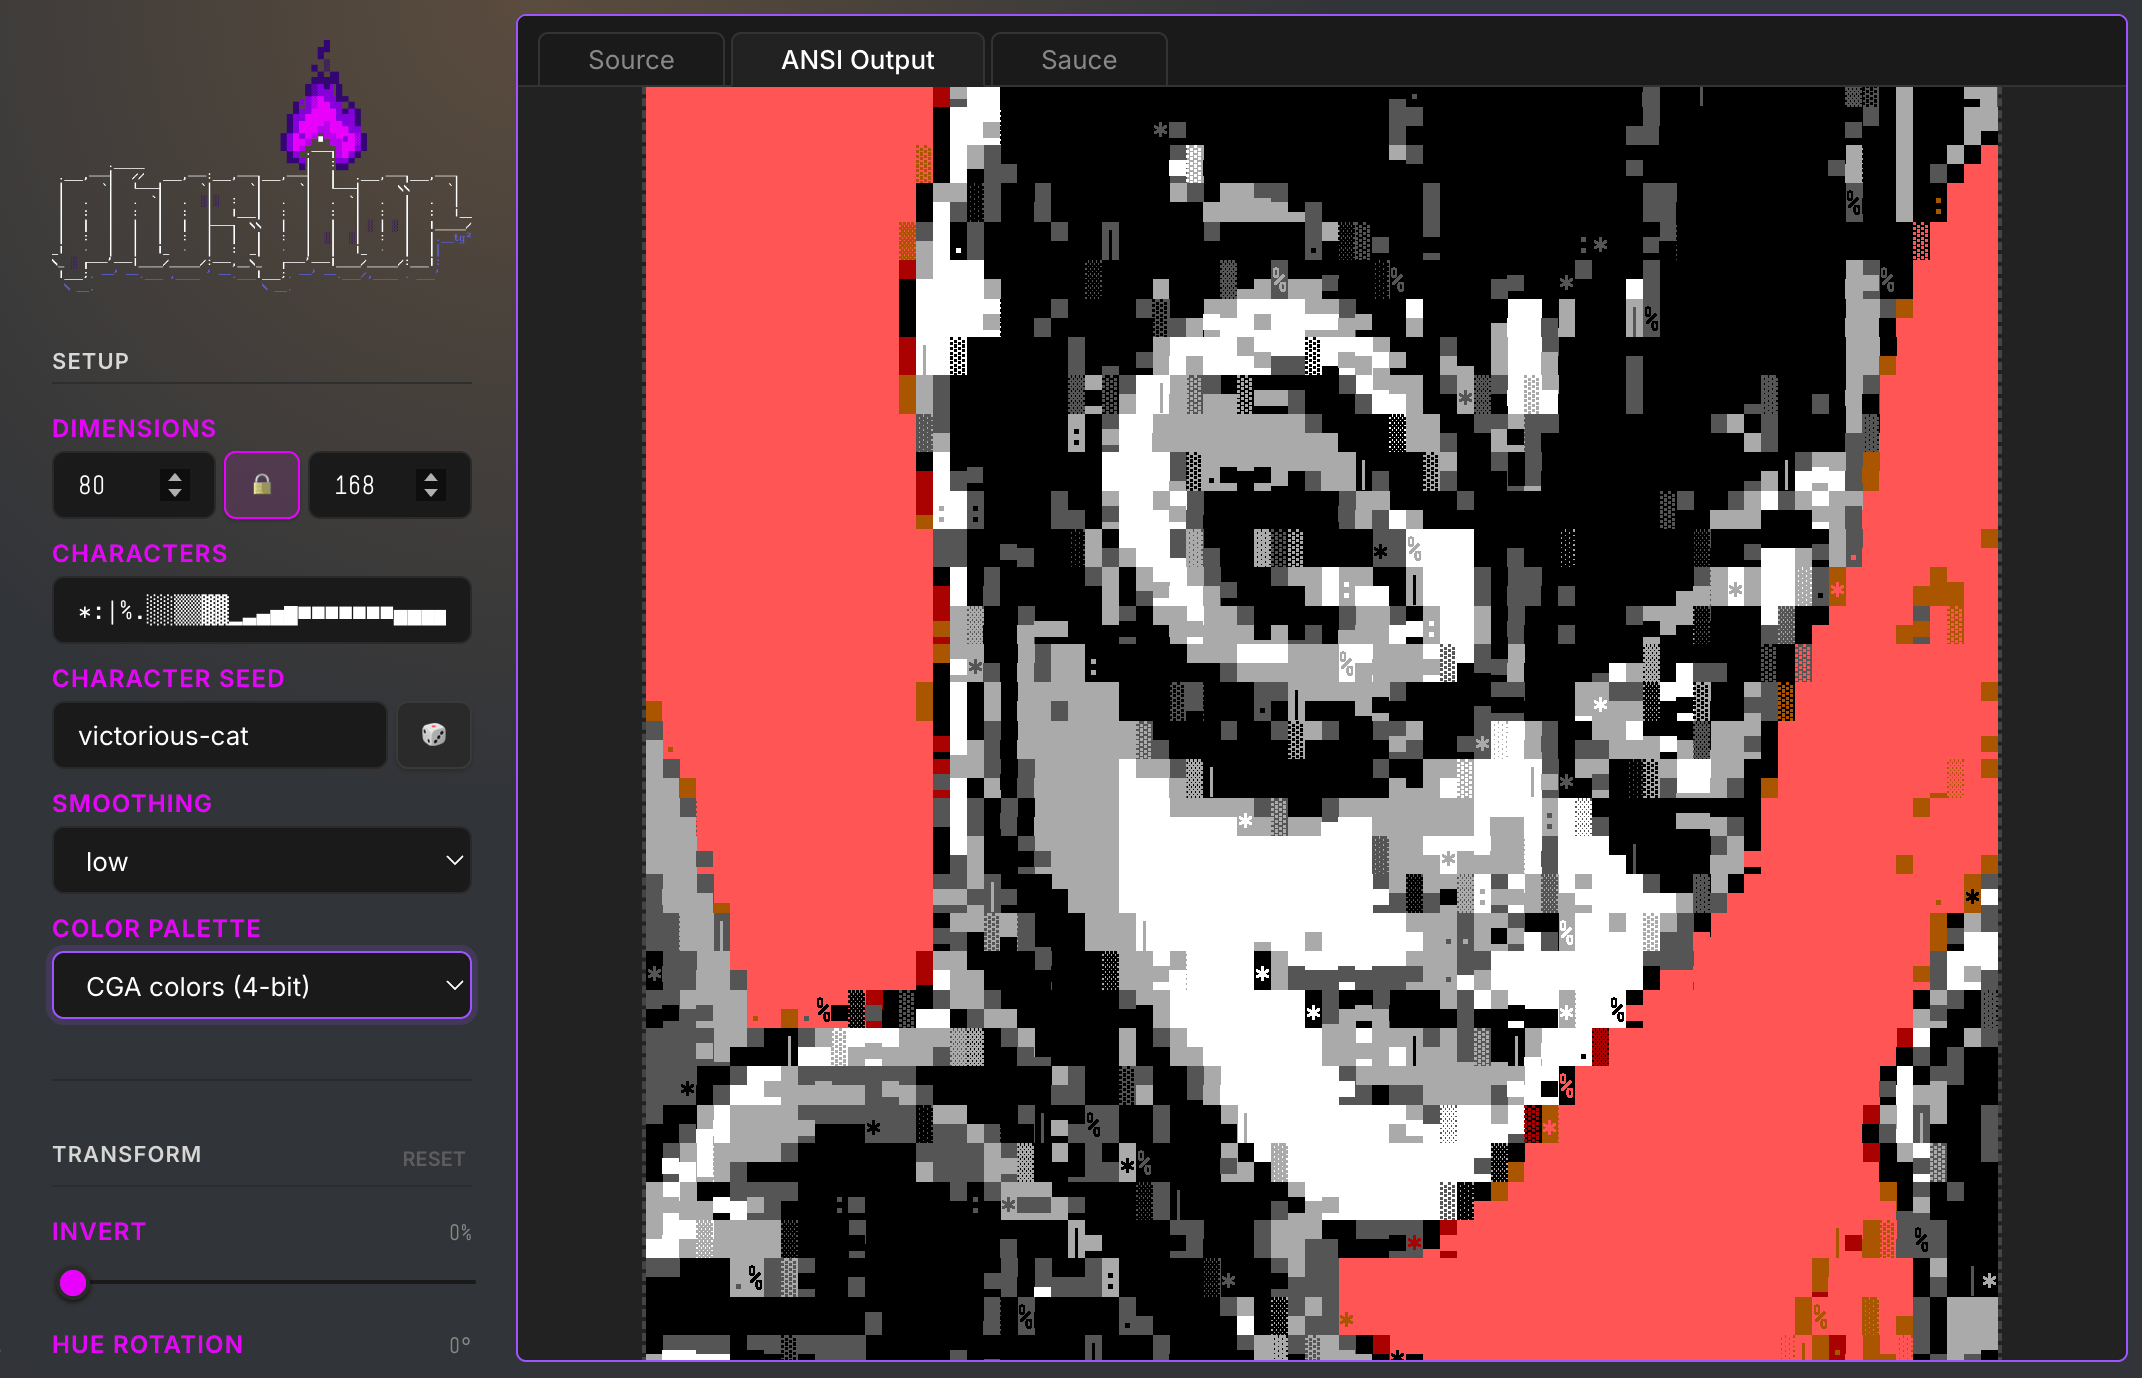
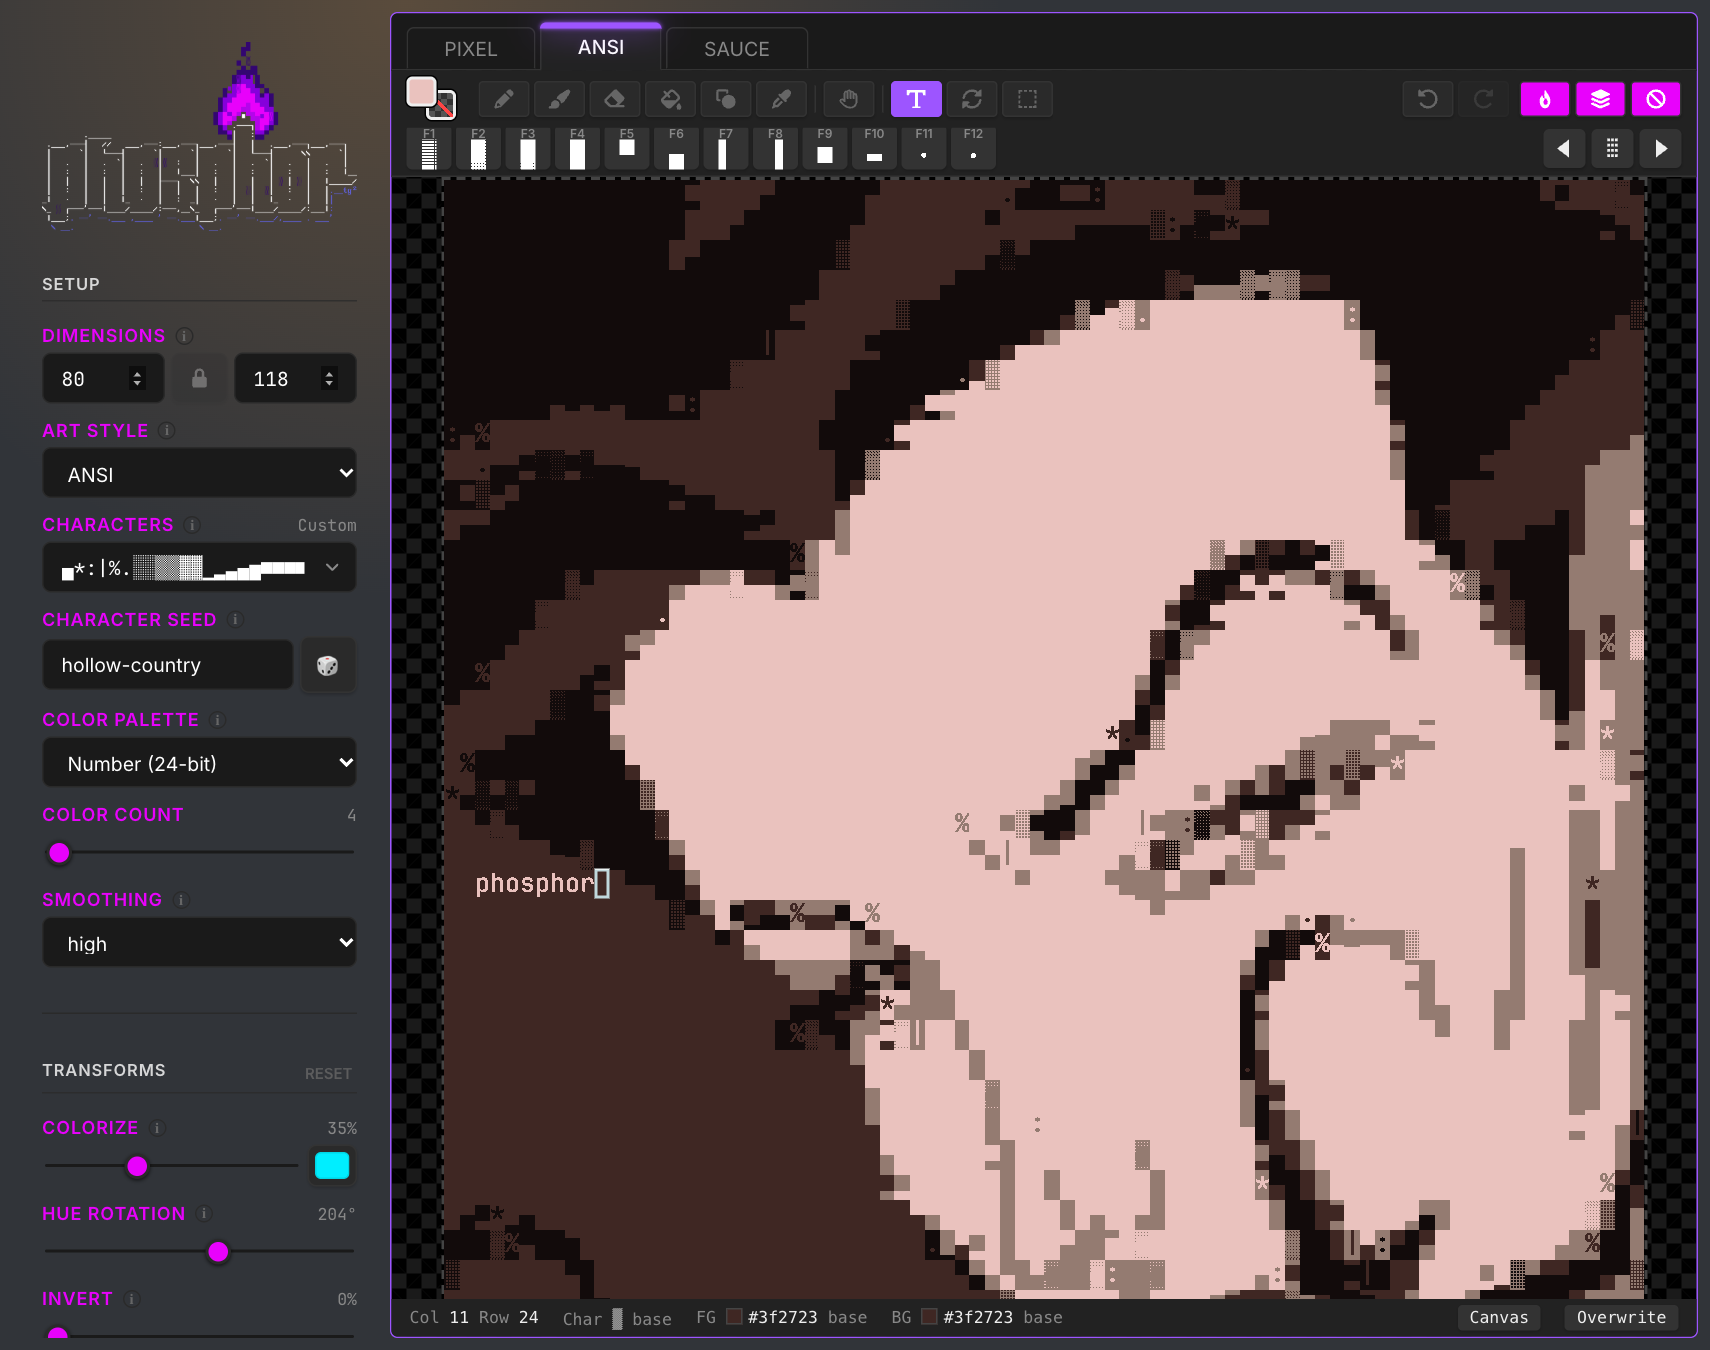
Updates the readme (#5)
* A new screenshot of the editor, and a README that describes the editor, not just the converter

- Reword the intro, features, and setup sections in simpler, friendlier
  prose aimed at non-technical visitors.
- Regroup features under task-based headings (turning images into text
  art, drawing and editing, saving your work).
- Shorten the "How It Works" and credits sections and drop the build
  version stamp paragraph.

diff --git a/README.md b/README.md
@@ -1,81 +1,88 @@
-Phosphor
-========
+# Phosphor
 
-The app / a live demo is available at [phosphor.work](https://phosphor.work).
+You can try the live app at [phosphor.work](https://phosphor.work).
 
-Convert images to ANSI art in the browser. Provide an image, tune the output with image adjustments and color quantization options, then export as a standard `.ans` or modern `.utf8ans` file — both with embedded [SAUCE](https://www.acid.org/info/sauce/sauce.htm) metadata.
+Phosphor is a free tool to make ANSI text art in your web browser. You can start with an image or start with a blank screen. Phosphor turns pictures into text art made of small colored blocks and letters. You can adjust the colors, pick which characters to use, and change settings such as brightness and contrast. You can also draw right on top of your art with brushes, paint buckets, and shapes, or type text with your keyboard.
+
+When you finish, you can save your project to keep working on it later. You can also export your art as a standard `.ans` file or a modern `.utf8ans` file. Both export formats include [SAUCE](https://www.acid.org/info/sauce/sauce.htm) details such as your name and the art title.
 
 [![Phosphor screenshot](screenshot.png)](https://phosphor.work)
 
-## Development Setup & Usage
-
-### Prerequisites
-- **Node.js**: Version 22.12+
-- **npm**: Version 9+
-
-### Commands
-```bash
-npm install       # Install dependencies
-npm run dev       # Start dev server at http://localhost:5173
-npm run build     # Create production build in dist/
-npm run preview   # Preview the production build locally
-npm run lint      # Run ESLint
-npm test          # Lint and every test layer (run `npx playwright install --with-deps chromium` once first)
-npm run test:unit     # Pure logic, in Node
-npm run test:browser  # The store, canvas and WebGL, in Chromium
-npm run test:e2e      # Real interactions against a production build
-npm run test:update   # Rewrite reference files (read the diff before committing)
-```
-
-Tests run on every pull request and gate the GitHub Pages deploy. See [docs/testing.md](docs/testing.md)
-for which layer a new test belongs in, and [AGENTS.md](AGENTS.md) for the rules of the road.
-
-Every build is stamped with its version and the commit it was built from. The version is
-`package.json`'s major.minor with the day it was built as the third number (`v0.1.20261024`); the
-commit tells two builds on one day apart. The About box shows both, and so does the page's
-`<meta name="phosphor-build">` (so `curl -s <site> | grep phosphor-build` says what's deployed). A build
-from uncommitted changes says `-dirty` after the commit.
-
 ## Features
 
-- **Export in two formats**
-  - `.ans` — Uses the legacy **CP437** character set (standard for DOS/BBS).
-  - `.utf8ans` — Uses modern **UTF-8** character encoding.
-- **Color Flexibility** — Any quantization mode (CGA, VGA, or 24-bit TrueColor) can be used for both file formats.
-- **Image adjustments** — smoothing, dimensions, brightness, contrast, saturation, hue rotation, invert, etc.
-- **Color quantization** - full color, CGA 16, VGA 256, or reduce to N colors (MMCQ) or a custom palette
-- **Randomized characters** - achieve various aesthetic foundations with a seedable RNG to generate character noise 
-- **SAUCE metadata** - title, author, group, date, font name, ice color flag
-- **Memory** - all settings persist across sessions via localStorage, but can be reset
+### Turning Images into Text Art
 
-## How it works
+- **Adjustments and effects**: Change brightness, contrast, saturation, hue, color tint, sharpness, and edges in real time. You can undo every change. Click **Bake** to save your adjustments into the picture and keep working.
+- **Color palettes**: Pick from full 24-bit color, classic CGA (16 colors), VGA (256 colors), colors taken right from your picture, or your own custom color list.
+- **Character sets**: Pick from blocks, shades, symbols, or classic ASCII characters. Phosphor can place characters by brightness or mix them for texture.
+- **Art styles**: Choose between full ANSI (colored blocks and letters), Color ASCII, or Black-and-White ASCII.
 
-The image is drawn onto an off-screen canvas at `cols × (rows × 2)` pixels. Each pair of vertically adjacent pixels maps to one character cell: the top pixel becomes the background color, and the bottom pixel becomes the foreground color, using `▄` (U+2584 LOWER HALF BLOCK) as the character. This doubles the effective vertical resolution for the same character count. The character used for the foreground character can be randomized from a set of possible characters provided in the Setup panel.
+### Drawing and Editing
 
-An optional color quantization pass replaces every pixel color with the nearest color from the chosen palette before the character assignment step.
+- **Two layers**: A base layer for your converted picture, and an edit layer for your drawings. You can merge your drawings down into the base, or bring the base up to edit it character by character.
+- **Drawing tools**: Pencil, Brush, Paint Bucket, Shapes, Eraser, Flip, Color Picker, and a Hand tool to move around the screen.
+- **Typing text**: Type letters and words straight into your art. You can use insert or overwrite mode, and switch character sets with the F-keys on your keyboard. It supports standard letters, symbols, emoji, and two-column characters such as Chinese, Japanese, and Korean.
+- **Select and move**: Cut, copy, paste, and move parts of your art around the screen. You can also paste text to and from other apps.
+- **Undo and shortcuts**: You can undo every action. Press **?** in the app to see all keyboard shortcuts. For example, hold the Alt key to pick a color, or hold the Space key to pan around your canvas.
 
-The exported file is a flat byte stream of ANSI escape sequences followed by a 128-byte SAUCE record.
+### Saving Your Work
 
-## Compatibility Note
+- **Project files (`.phosphor`)**: Save your whole project, including layers and settings, so you can open it again later.
+- **Export files**: Save as `.ans` for classic ANSI viewers or `.utf8ans` for modern terminals. If a character does not exist in classic CP437, Phosphor tells you what it replaced it with.
+- **SAUCE details**: Save details such as title, author name, group name, date, font, and iCE colors directly inside the file.
+- **Browser memory**: Phosphor saves your settings in your browser, so your setup is still there when you return. You can also reset settings at any time.
 
-While Phosphor allows you to export high-color data (VGA 256 or 24-bit TrueColor) into standard `.ans` files, most legacy ANSI viewers and editors only support the basic 16-color CGA palette.
+Want to learn more about the tools? Read the [layer guide](docs/layers.md) and the [character guide](docs/characters.md).
 
-For proper viewing and editing of advanced color `.ans` files, check out the **[Advanced Color fork of the Moebius editor](https://github.com/christiansacks/moebius)**.
+## How It Works
 
-## Output formats
+Phosphor draws your picture onto a small grid. Every character box has two pixels stacked on top of each other. The top pixel sets the background color. The bottom pixel sets the text color using a half-block character (`▄`). This gives you twice as much vertical detail. If you choose a color palette, Phosphor rounds each pixel to the closest matching color.
 
-| Format     | Color                                        | Characters | Newlines          |
-|------------|----------------------------------------------|------------|-------------------|
-| `.ans`     | Legacy CGA SGR or Xterm-256 / TrueColor      | CP437      | none (raw stream) |
-| `.utf8ans` | 24-bit `ESC[38;2;R;G;Bm` / `ESC[48;2;R;G;Bm` | UTF-8      | `\r\n` per row    |
+Your drawings and typed text sit on a second layer on top of the picture. What you see on the screen matches the final output character for character. When you export, Phosphor saves those characters along with standard ANSI color codes and a 128-byte SAUCE record at the end.
+
+## Output Formats
+
+| File Extension | Colors | Characters | Line Breaks |
+|---|---|---|---|
+| `.ans` | Classic CGA (16 colors) or modern 256 / 24-bit TrueColor | CP437 (classic PC characters) | None (one continuous stream) |
+| `.utf8ans` | 24-bit TrueColor | UTF-8 (supports all modern characters) | Newline at the end of each row |
+
+## Note on Older ANSI Viewers
+
+Phosphor lets you export `.ans` files with 256 colors or full 24-bit color. However, many older ANSI viewers only know how to show 16 colors.
+
+If you want to view or edit high-color `.ans` files on your computer, try the **[Advanced Color fork of the Moebius editor](https://github.com/christiansacks/moebius)**.
+
+## Setup and Development
+
+### Requirements
+- **Node.js**: Version 22.12 or newer
+- **npm**: Version 9 or newer
+
+### Commands
+
+```bash
+npm install           # Install project packages
+npm run dev           # Start the local test server at http://localhost:5173
+npm run build         # Build the finished app in the dist/ folder
+npm run preview       # Test the finished build locally
+npm run lint          # Check code formatting with ESLint
+npm test              # Run all tests (run `npx playwright install --with-deps chromium` once first)
+npm run test:unit     # Run fast logic tests in Node
+npm run test:browser  # Test canvas, WebGL, and data store in Chromium
+npm run test:e2e      # Test user interactions on a real build
+npm run test:update   # Update test reference files when changes are expected
+```
+
+All tests run automatically on every pull request before code gets published. Read [docs/testing.md](docs/testing.md) to learn where to add new tests, and read [AGENTS.md](AGENTS.md) for project rules.
 
 ## Credits
 
-ANSI art preview and rendering was initially powered by the [play](https://github.com/ertdfgcvb/play.core) creative-coding runtime by [ertdfgcvb](https://ertdfgcvb.xyz/), but it's since been adapted into a minimal subset of the functionality. I wanted to credit that work as the initial inspiration for the project, and suggest checking it out as something that's pretty awesome in its own right.
+Phosphor's text rendering started with ideas from [play.core](https://github.com/ertdfgcvb/play.core) by [ertdfgcvb](https://ertdfgcvb.xyz/). Over time, I trimmed and changed that code to fit this app, but their creative work was a big inspiration. Definitely check out their projects if you enjoy creative coding.
 
 ## License
 
-Phosphor is released under the MIT license:
+Phosphor is free software under the MIT license:
 
 * https://opensource.org/licenses/MIT
 
